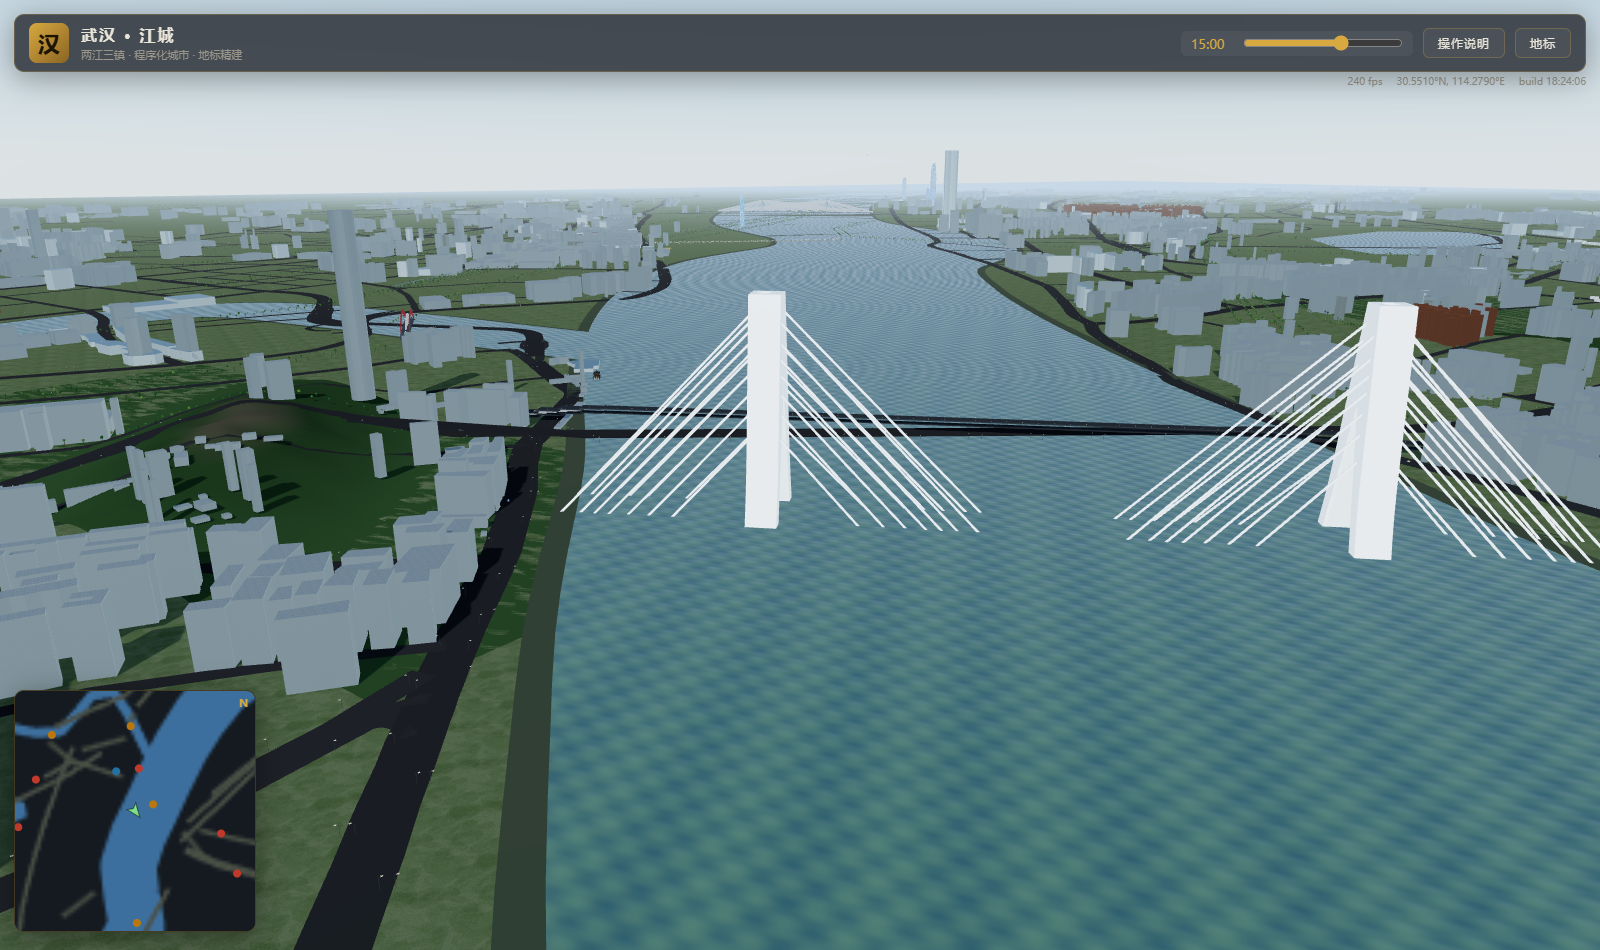
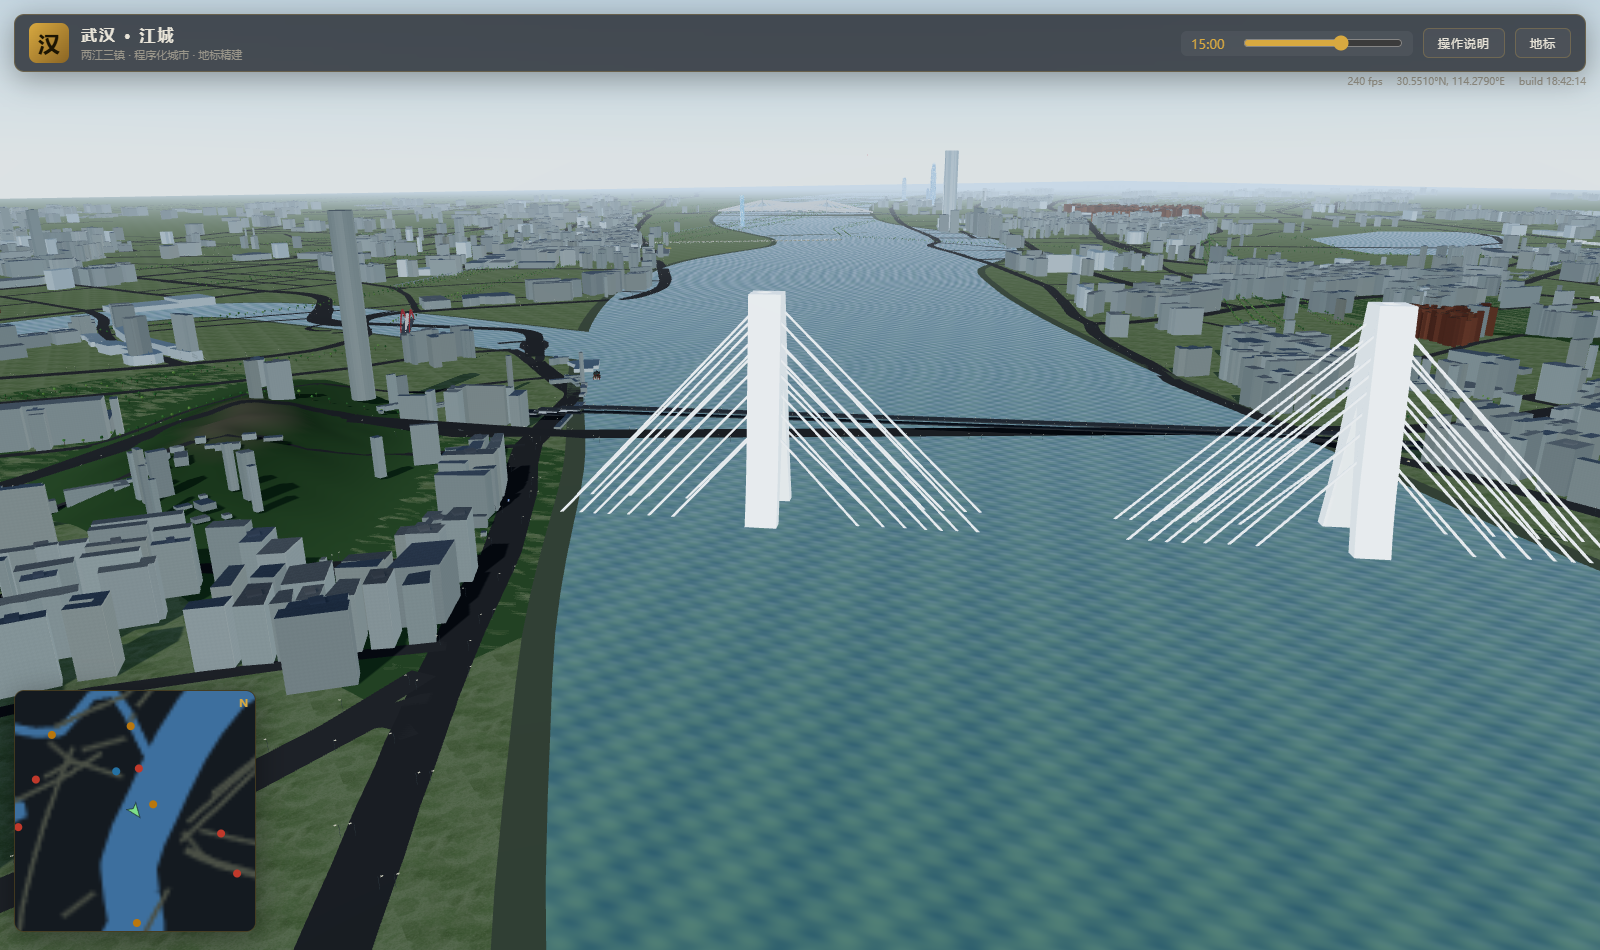
OSM 城市色彩工程:顶点色系统(立面4桶真实色板+明度微差,屋顶7色深色系)+屋顶设备块(40%中大型建筑)——白模治理

diff --git a/js/city-osm.js b/js/city-osm.js
@@ -87,16 +87,24 @@ export async function buildOsmCity(buildings) {
   const concRough = loadTexture('./assets/textures/rough_concrete_rough_2k.jpg', { srgb: false });
 
   const buckets = {
-    concrete: { pos: [], nor: [], uv: [], idx: [] },
-    glass: { pos: [], nor: [], uv: [], idx: [] },
-    civic: { pos: [], nor: [], uv: [], idx: [] },
-    lowrise: { pos: [], nor: [], uv: [], idx: [] },
+    concrete: { pos: [], nor: [], uv: [], idx: [], col: [] },
+    glass: { pos: [], nor: [], uv: [], idx: [], col: [] },
+    civic: { pos: [], nor: [], uv: [], idx: [], col: [] },
+    lowrise: { pos: [], nor: [], uv: [], idx: [], col: [] },
   };
+  // 城市色彩系统:立面真实色板 + 深色屋顶系(告别白模)
+  const FACADE_PALETTE = {
+    concrete: ['#cfcabb', '#c2bbab', '#b6b2a4', '#d6cec0', '#aca69a', '#bdb3a0'],
+    glass: ['#8fa8bc', '#7d9cb4', '#a3b8c6', '#6f92aa', '#88a2b8'],
+    civic: ['#d8cfc0', '#cfc4b2', '#c2b49e', '#d4c8b4'],
+    lowrise: ['#c4917a', '#b5836e', '#cf9d86', '#a87862', '#d0a184'],
+  };
+  const ROOF_PALETTE = ['#565a60', '#6b6560', '#75706a', '#4e5560', '#7d766e', '#5f6168', '#8a8378'];
   const materials = {
-    concrete: new THREE.MeshStandardMaterial({ color: 0xcfd2cd, map: facade, normalMap: concNor, roughnessMap: concRough, emissiveMap: windowsTex, emissive: new THREE.Color('#ffc98a'), emissiveIntensity: 0, roughness: 0.6, metalness: 0.15, normalScale: new THREE.Vector2(0.5, 0.5) }),
-    glass: new THREE.MeshStandardMaterial({ color: 0xaec8d4, map: facade, normalMap: concNor, emissiveMap: windowsTex, emissive: new THREE.Color('#c8dcf0'), emissiveIntensity: 0, roughness: 0.25, metalness: 0.55, normalScale: new THREE.Vector2(0.3, 0.3) }),
-    civic: new THREE.MeshStandardMaterial({ color: 0xd9d2c2, map: facade, emissiveMap: windowsTex, emissive: new THREE.Color('#ffd9a0'), emissiveIntensity: 0, roughness: 0.85, metalness: 0.05 }),
-    lowrise: new THREE.MeshStandardMaterial({ color: 0xcaa488, map: brick || facade, emissiveMap: windowsTex, emissive: new THREE.Color('#ffc98a'), emissiveIntensity: 0, roughness: 0.9, metalness: 0.02 }),
+    concrete: new THREE.MeshStandardMaterial({ color: 0xffffff, vertexColors: true, map: facade, normalMap: concNor, roughnessMap: concRough, emissiveMap: windowsTex, emissive: new THREE.Color('#ffc98a'), emissiveIntensity: 0, roughness: 0.6, metalness: 0.15, normalScale: new THREE.Vector2(0.5, 0.5) }),
+    glass: new THREE.MeshStandardMaterial({ color: 0xffffff, vertexColors: true, map: facade, normalMap: concNor, emissiveMap: windowsTex, emissive: new THREE.Color('#c8dcf0'), emissiveIntensity: 0, roughness: 0.25, metalness: 0.55, normalScale: new THREE.Vector2(0.3, 0.3) }),
+    civic: new THREE.MeshStandardMaterial({ color: 0xffffff, vertexColors: true, map: facade, emissiveMap: windowsTex, emissive: new THREE.Color('#ffd9a0'), emissiveIntensity: 0, roughness: 0.85, metalness: 0.05 }),
+    lowrise: new THREE.MeshStandardMaterial({ color: 0xffffff, vertexColors: true, map: brick || facade, emissiveMap: windowsTex, emissive: new THREE.Color('#ffc98a'), emissiveIntensity: 0, roughness: 0.9, metalness: 0.02 }),
   };
   for (const m of Object.values(materials)) registerEnv(m, 0.7);
 
@@ -122,8 +130,12 @@ export async function buildOsmCity(buildings) {
     if (area > 30000) h = Math.min(h, 15);
 
     const gy = Math.max(terrainHeight(pts[0][0], pts[0][1]), 0);
-    const B = buckets[bucketOf(b.t || {})];
-    const base = B.pos.length / 3;
+    const bk = bucketOf(b.t || {});
+    const B = buckets[bk];
+    // 本建筑色彩(立面桶色板 × 明度微差;屋顶深色系)
+    const fp = FACADE_PALETTE[bk];
+    const fc = new THREE.Color(fp[(rand() * fp.length) | 0]).multiplyScalar(0.88 + rand() * 0.24);
+    const rc = new THREE.Color(ROOF_PALETTE[(rand() * ROOF_PALETTE.length) | 0]).multiplyScalar(0.9 + rand() * 0.2);
 
     // 侧面:每边一 Quad,UV 按世界尺寸(u=累计长/3.5m 一格,v=h/3.2 一层)
     let acc = 0;
@@ -137,18 +149,51 @@ export async function buildOsmCity(buildings) {
       B.pos.push(x1, gy, z1, x2, gy, z2, x2, gy + h, z2, x1, gy + h, z1);
       B.nor.push(nx, 0, nz, nx, 0, nz, nx, 0, nz, nx, 0, nz);
       B.uv.push(u0, 0, u1, 0, u1, v1, u0, v1);
+      for (let k = 0; k < 4; k++) B.col.push(fc.r, fc.g, fc.b);
       B.idx.push(vi, vi + 1, vi + 2, vi, vi + 2, vi + 3);
       acc += len;
     }
-    // 屋顶:三角化(three ShapeUtils;轮廓需闭合且去尾点)
+    // 屋顶:三角化(three ShapeUtils)+ 深色屋顶顶点色 + 设备块
+    let cx = 0, cz = 0;
+    const roofRing = pts.slice(0, -1);
     try {
-      const contour = pts.slice(0, -1).map(([x, z]) => new THREE.Vector2(x, z));
+      const contour = roofRing.map(([x, z]) => new THREE.Vector2(x, z));
+      for (const p of contour) { cx += p.x; cz += p.y; }
+      cx /= contour.length; cz /= contour.length;
       const tris = THREE.ShapeUtils.triangulateShape(contour, []);
       const vi = B.pos.length / 3;
       for (const p of contour) B.pos.push(p.x, gy + h, p.y);
-      for (let i = 0; i < contour.length; i++) { B.nor.push(0, 1, 0); B.uv.push(contour[i].x / 8, contour[i].y / 8); }
+      for (let i = 0; i < contour.length; i++) {
+        B.nor.push(0, 1, 0);
+        B.uv.push(contour[i].x / 8, contour[i].y / 8);
+        B.col.push(rc.r, rc.g, rc.b);
+      }
       for (const t of tris) B.idx.push(vi + t[0], vi + t[2], vi + t[1]);
     } catch { /* 自交多边形跳过屋顶 */ }
+    // 屋顶设备块(机房/水箱):中大型建筑 40%
+    if (area > 220 && h > 11 && rand() < 0.4) {
+      const bh = 2.2 + rand() * 1.6, bw = Math.min(6, Math.sqrt(area) * 0.18);
+      const q = [[-bw, -bw], [bw, -bw], [bw, bw], [-bw, bw]];
+      const vBottom = [], vTop = [];
+      for (const [ox, oz] of q) {
+        vBottom.push(B.pos.length / 3);
+        B.pos.push(cx + ox, gy + h, cz + oz);
+        B.nor.push(0, 1, 0); B.uv.push(0, 0);
+        B.col.push(rc.r * 1.15, rc.g * 1.15, rc.b * 1.15);
+      }
+      for (const [ox, oz] of q) {
+        vTop.push(B.pos.length / 3);
+        B.pos.push(cx + ox, gy + h + bh, cz + oz);
+        B.nor.push(0, 1, 0); B.uv.push(0, 0);
+        B.col.push(rc.r * 0.85, rc.g * 0.85, rc.b * 0.85);
+      }
+      B.idx.push(vBottom[0], vBottom[1], vBottom[2], vBottom[0], vBottom[2], vBottom[3]);
+      B.idx.push(vTop[2], vTop[1], vTop[0], vTop[3], vTop[2], vTop[0]);
+      for (let e = 0; e < 4; e++) {
+        const a = e, b2 = (e + 1) % 4;
+        B.idx.push(vBottom[a], vTop[a], vTop[b2], vBottom[a], vTop[b2], vBottom[b2]);
+      }
+    }
     count++;
   }
 
@@ -160,6 +205,7 @@ export async function buildOsmCity(buildings) {
     geo.setAttribute('position', new THREE.Float32BufferAttribute(B.pos, 3));
     geo.setAttribute('normal', new THREE.Float32BufferAttribute(B.nor, 3));
     geo.setAttribute('uv', new THREE.Float32BufferAttribute(B.uv, 2));
+    geo.setAttribute('color', new THREE.Float32BufferAttribute(B.col, 3));
     geo.setIndex(B.idx);
     geo.computeBoundingSphere();
     const mesh = new THREE.Mesh(geo, materials[key]);
